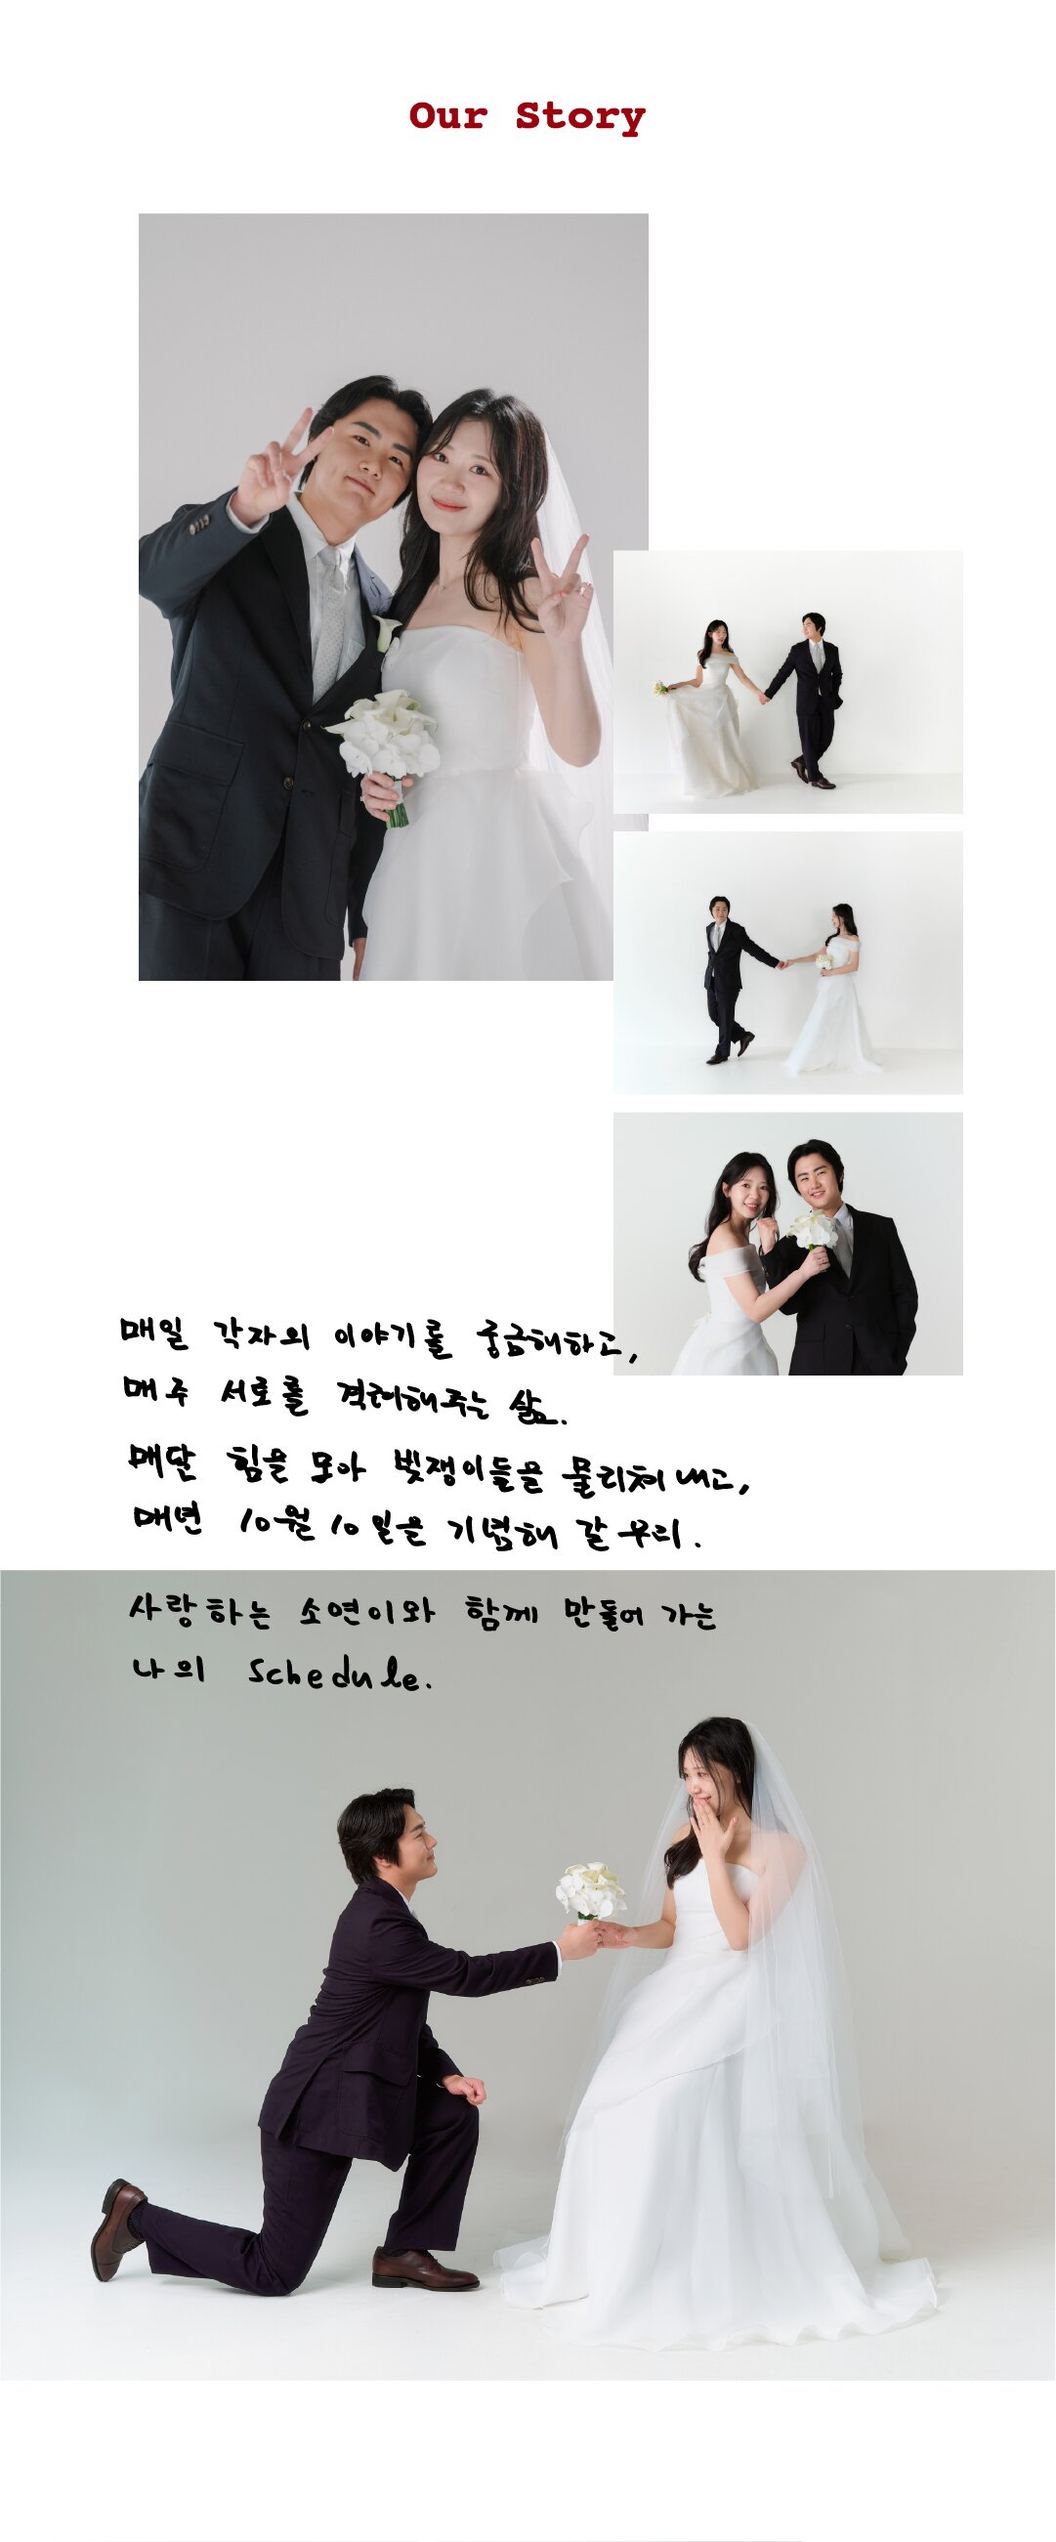
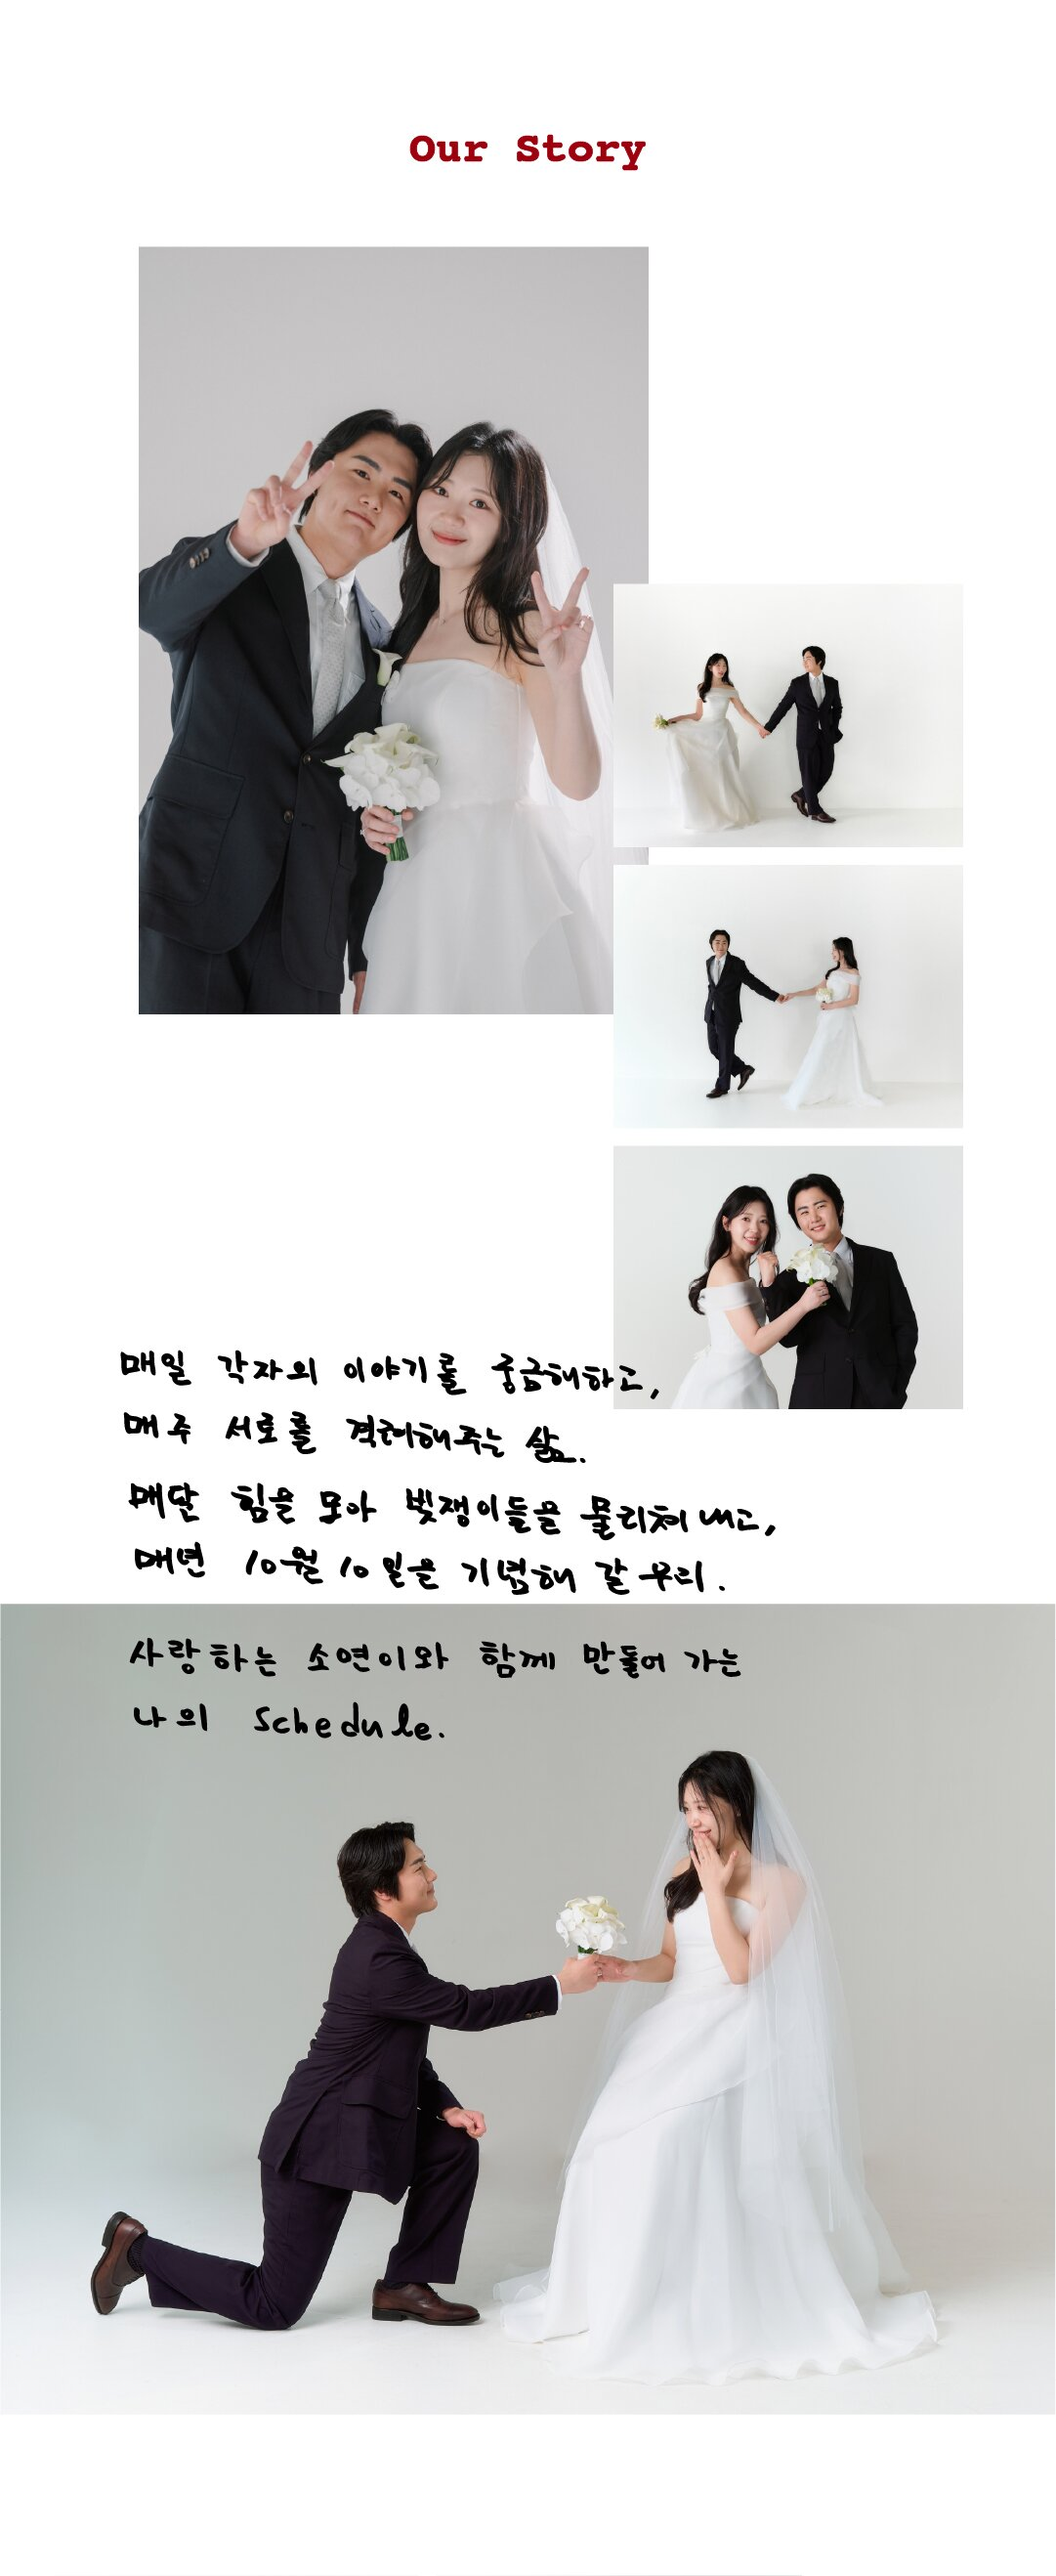
Add files via upload

diff --git a/index.html b/index.html
@@ -100,7 +100,7 @@
     z-index: 3;
     text-align: center;
     color: #fff;
-    font-size: 11px;
+    font-size: 16.5px;
     letter-spacing: 2px;
     text-transform: uppercase;
     opacity: 0.85;
@@ -188,8 +188,8 @@
     display: block;
     text-align: center;
     padding: 12px 0;
-    border: 1px solid var(--burgundy);
-    color: var(--burgundy);
+    border: 1px solid #9e000e;
+    color: #9e000e;
     text-decoration: none;
     font-size: 13px;
     border-radius: 4px;
@@ -360,7 +360,27 @@
     font-size: 15px;
     letter-spacing: 2px;
     margin-bottom: 6px;
-    color: var(--ink);
+    color: #9e000e;
+  }
+
+  /* ---------- Kakao share ---------- */
+  .share-section {
+    padding: 0 28px 40px;
+  }
+
+  .kakao-share-btn {
+    display: block;
+    width: 100%;
+    padding: 12px 0;
+    border: 1px solid #9e000e;
+    background: #9e000e;
+    color: #fff;
+    text-align: center;
+    font-size: 13px;
+    letter-spacing: 0.5px;
+    border-radius: 4px;
+    font-family: inherit;
+    cursor: pointer;
   }
 
   .account-group {
@@ -428,6 +448,13 @@
     font-weight: 600;
     color: var(--ink);
     margin-bottom: 4px;
+    white-space: nowrap;
+    overflow: hidden;
+    text-overflow: ellipsis;
+  }
+
+  .account-card {
+    min-height: 44px;
   }
 
   .account-card .name {
@@ -518,7 +545,7 @@
   <section class="img-section">
     <div class="flat-photo-wrap">
       <img src="images/intro-main.jpg" alt="정일 그리고 소연">
-      <div class="lightbox-trigger" data-photo="images/intro-main-photo.jpg" style="left:0%; top:4%; width:100%; height:96%;"></div>
+      <div class="lightbox-trigger" data-photo="images/intro-main-photo.jpg" style="left:0%; top:30.10%; width:100%; height:61.95%;"></div>
     </div>
   </section>
 
@@ -536,11 +563,11 @@
   <section class="img-section">
     <div class="flat-photo-wrap">
       <img src="images/ourstory-indoor-1.jpg" alt="Our Story 실내 1">
-      <div class="lightbox-trigger" data-photo="images/ourstory-indoor-1-photo1.jpg" style="left:13.51%; top:8.42%; width:47.18%; height:30.13%;"></div>
-      <div class="lightbox-trigger" data-photo="images/ourstory-indoor-1-photo2.jpg" style="left:62.35%; top:21.71%; width:30.62%; height:10.22%;"></div>
-      <div class="lightbox-trigger" data-photo="images/ourstory-indoor-1-photo3.jpg" style="left:62.35%; top:32.75%; width:30.62%; height:10.15%;"></div>
-      <div class="lightbox-trigger" data-photo="images/ourstory-indoor-1-photo4.jpg" style="left:62.35%; top:43.74%; width:30.62%; height:10.22%;"></div>
-      <div class="lightbox-trigger" data-photo="images/ourstory-indoor-1-photo5.jpg" style="left:0%; top:61.80%; width:100%; height:38.20%;"></div>
+      <div class="lightbox-trigger" data-photo="images/ourstory-indoor-1-photo1.jpg" style="left:13.14%; top:9.56%; width:48.29%; height:29.82%;"></div>
+      <div class="lightbox-trigger" data-photo="images/ourstory-indoor-1-photo2.jpg" style="left:58.28%; top:22.68%; width:32.93%; height:10.20%;"></div>
+      <div class="lightbox-trigger" data-photo="images/ourstory-indoor-1-photo3.jpg" style="left:58.28%; top:33.57%; width:32.93%; height:10.24%;"></div>
+      <div class="lightbox-trigger" data-photo="images/ourstory-indoor-1-photo4.jpg" style="left:58.28%; top:44.46%; width:32.93%; height:10.24%;"></div>
+      <div class="lightbox-trigger" data-photo="images/ourstory-indoor-1-photo5.jpg" style="left:0%; top:68.89%; width:100%; height:27.08%;"></div>
     </div>
   </section>
   <section class="img-section">
@@ -589,12 +616,12 @@
   <section class="img-section">
     <div class="flat-photo-wrap">
       <img src="images/ourstory-outdoor-2.jpg" alt="Our Story 야외 2">
-      <div class="lightbox-trigger" data-photo="images/ourstory-outdoor-2-photo5-2.jpg" style="left:11.01%; top:2.70%; width:59.57%; height:18.50%;"></div>
-      <div class="lightbox-trigger" data-photo="images/ourstory-outdoor-2-photo5-1.jpg" style="left:64.75%; top:0%; width:29.97%; height:9.18%;"></div>
-      <div class="lightbox-trigger" data-photo="images/ourstory-outdoor-2-photo6.jpg" style="left:0.09%; top:23.21%; width:99.91%; height:26.73%;"></div>
-      <div class="lightbox-trigger" data-photo="images/ourstory-outdoor-2-photo7.jpg" style="left:0%; top:52.97%; width:88.71%; height:12.23%;"></div>
-      <div class="lightbox-trigger" data-photo="images/ourstory-outdoor-2-photo8-1.jpg" style="left:20.44%; top:67.64%; width:38.76%; height:12.04%;"></div>
-      <div class="lightbox-trigger" data-photo="images/ourstory-outdoor-2-photo8-2.jpg" style="left:61.24%; top:67.64%; width:38.76%; height:12.04%;"></div>
+      <div class="lightbox-trigger" data-photo="images/ourstory-outdoor-2-photo5-2.jpg" style="left:11.01%; top:3.92%; width:59.57%; height:16.91%;"></div>
+      <div class="lightbox-trigger" data-photo="images/ourstory-outdoor-2-photo5-1.jpg" style="left:65.13%; top:1.47%; width:29.51%; height:8.38%;"></div>
+      <div class="lightbox-trigger" data-photo="images/ourstory-outdoor-2-photo6.jpg" style="left:0%; top:22.69%; width:100%; height:24.41%;"></div>
+      <div class="lightbox-trigger" data-photo="images/ourstory-outdoor-2-photo7.jpg" style="left:0%; top:51.00%; width:88.62%; height:11.15%;"></div>
+      <div class="lightbox-trigger" data-photo="images/ourstory-outdoor-2-photo8-1.jpg" style="left:20.44%; top:66.09%; width:38.30%; height:10.96%;"></div>
+      <div class="lightbox-trigger" data-photo="images/ourstory-outdoor-2-photo8-2.jpg" style="left:59.76%; top:66.09%; width:40.15%; height:10.96%;"></div>
     </div>
   </section>
 
@@ -656,6 +683,11 @@
       </div>
     </div>
     </div>
+  </section>
+
+  <!-- Kakao Share -->
+  <section class="share-section">
+    <button class="kakao-share-btn" id="kakaoShareBtn">카카오톡 공유</button>
   </section>
 
 </div>
@@ -740,8 +772,8 @@ document.getElementById('viewDetailsBtn').addEventListener('click', function(e) 
   var imgs = document.querySelectorAll('.lightbox-img');
 
   var MIN_SCALE = 1;
-  var MAX_SCALE = 2;      // pinch / double-tap zoom ceiling
-  var TAP_ZOOM = 1.8;     // scale applied on double-tap
+  var MAX_SCALE = 3;      // pinch / double-tap zoom ceiling
+  var TAP_ZOOM = 3;       // scale applied on double-tap
   var scale = 1, panX = 0, panY = 0;
 
   function clampPan() {
@@ -920,6 +952,29 @@ document.querySelectorAll('.copy-btn').forEach(function (btn) {
     });
   });
 });
+
+/* Kakao share button - uses the native share sheet (KakaoTalk shows up there
+   on phones that have it installed). Swap this for Kakao.Share.sendDefault()
+   once a Kakao JavaScript key + registered domain are available. */
+var kakaoShareBtn = document.getElementById('kakaoShareBtn');
+if (kakaoShareBtn) {
+  kakaoShareBtn.addEventListener('click', function () {
+    var shareData = {
+      title: '정일 ♥ 소연 결혼합니다',
+      text: '2026.10.10 (토) 오후 1시, 레이어스튜디오11에서 정일과 소연의 결혼식에 초대합니다.',
+      url: window.location.href
+    };
+    if (navigator.share) {
+      navigator.share(shareData).catch(function () {});
+    } else {
+      navigator.clipboard.writeText(shareData.url).then(function () {
+        var original = kakaoShareBtn.textContent;
+        kakaoShareBtn.textContent = '링크가 복사되었습니다';
+        setTimeout(function () { kakaoShareBtn.textContent = original; }, 1500);
+      });
+    }
+  });
+}
 </script>
 
 <script src="//dapi.kakao.com/v2/maps/sdk.js?appkey=1d4f9fb7d036666893afad1b329cd254&libraries=services&autoload=false"></script>
